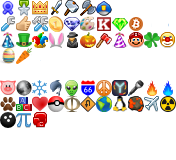
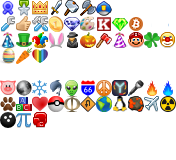
Added LGBT flair

Changed region(s): [[0.1705, 0.2812, 0.2841, 0.4062]]

diff --git a/README.md b/README.md
@@ -16,4 +16,4 @@ On Firefox: As above, but you should have [Greasemonkey](https://addons.mozilla.
 
 *****
 
-Last updated 30/4/15.  Compatible with all event flairs up to and including the second St Patrick's day flairs.  
+Last updated 30/4/15.  Compatible with all event flairs up to and including the equal marriage flair.  
